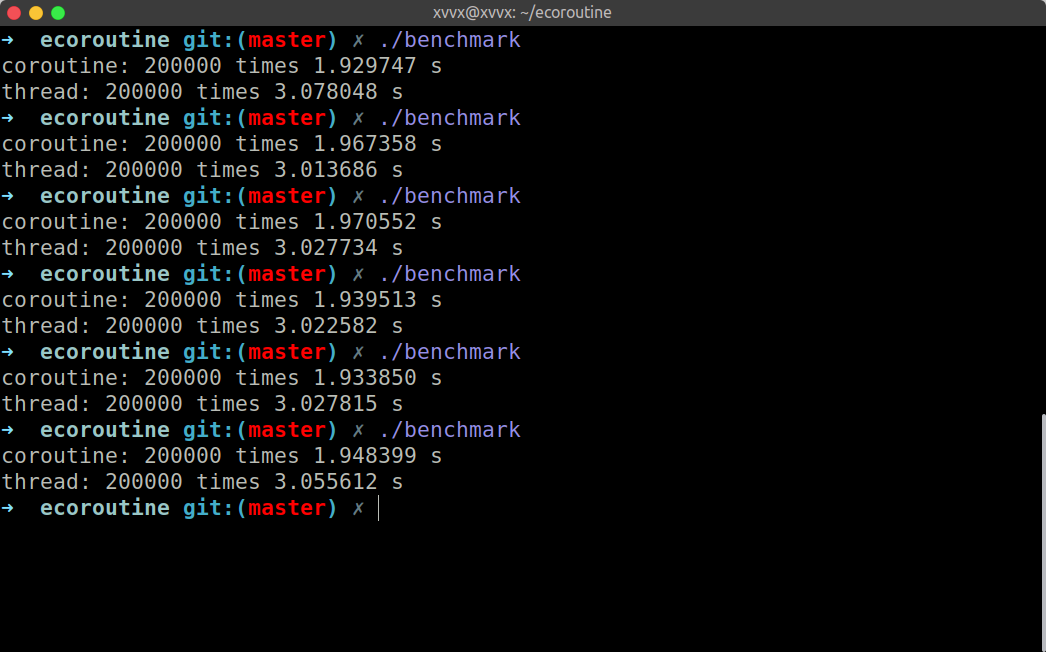
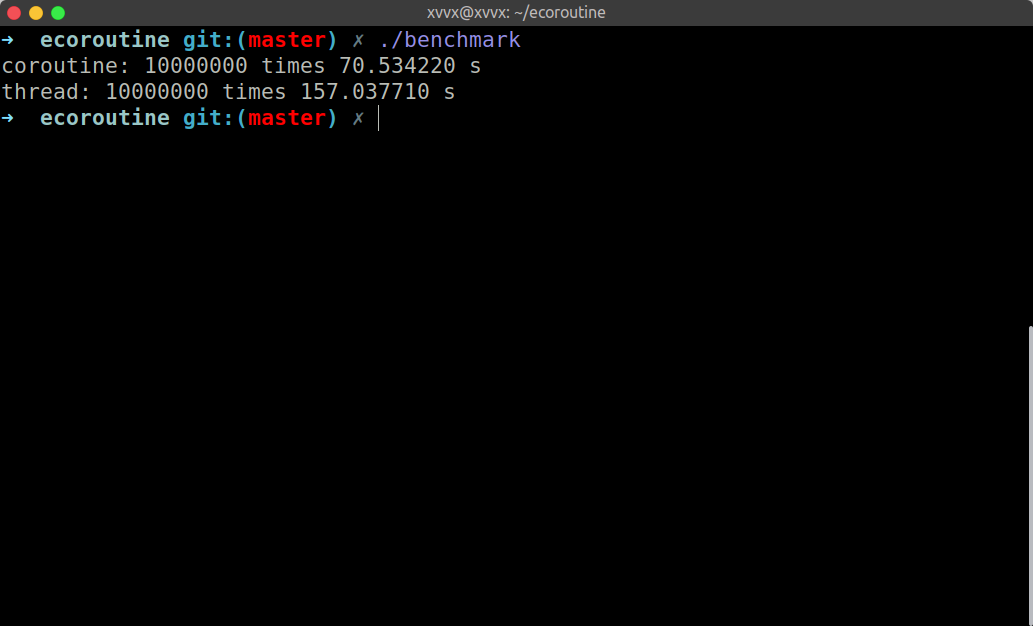
fix bug: allocated Coroutine object can't be deleted

Changed region(s): [[0.0, 0.0, 0.5886, 0.7891], [0.9913, 0.516, 1.0, 0.6374]]

diff --git a/coroutine.cc b/coroutine.cc
@@ -11,8 +11,6 @@
 #include <sstream>
 
 
-static int free_cnt = 0;
-
 namespace ecoroutine {
 
 static void schedule();
@@ -123,19 +121,24 @@ void Scheduler::DoSchedule() {
             next->state_ = CoState::kRunning;
             running_id_ = next->id_;
             swapcontext(&main_context_, &next->context_);
+
+            //if come back from dead coroutine
+            if (next->state_ == CoState::kDead) {
+                id_map_.erase(next->id_);
+                ready_coroutines_.remove(next);
+                all_coroutines_.remove(next);
+            }
         }
     } else {
-        //not main coroutines
-        if (curr->state_ == CoState::kDead) {
-            id_map_.erase(curr->id_);
 
-            ready_coroutines_.remove(curr);
-            all_coroutines_.remove(curr);
+        ucontext_t *curr_context = &curr->context_;
+        if(curr->state_==CoState::kDead){
+            curr.reset();
         }
 
         //switch to main coroutine
         running_id_ = 0;
-        swapcontext(&curr->context_, &main_context_);
+        swapcontext(curr_context, &main_context_);
     }
 }
 

diff --git a/benchmark.cc b/benchmark.cc
@@ -9,16 +9,15 @@
 #include <stdio.h>
 #include <thread>
 
-constexpr uint32_t loop_times = 100000;
+constexpr uint32_t loop_times = 500 * 10000;
 
 uint64_t coroutine_test() {
-    ecoroutine::CoroutineFunc func = [](){ ecoroutine::yield(); };
+    ecoroutine::CoroutineFunc func = [](){};
+
     clock_t start = clock();
     for (int i = 0; i < loop_times; ++i) {
         ecoroutine::coroutine_t coroutine1 = ecoroutine::create(func);
         ecoroutine::coroutine_t coroutine2 = ecoroutine::create(func);
-        ecoroutine::run(coroutine1);
-        ecoroutine::run(coroutine2);
         ecoroutine::run(coroutine1);
         ecoroutine::run(coroutine2);
     }

diff --git a/README.md b/README.md
@@ -2,7 +2,17 @@
 
 A simple stackful asymmetric scheduling coroutine library for modern C++.
 
+- schedule algorithm: asymmetric coroutine sheduling, same as [libgo](https://github.com/yyzybb537/libgo)
+- coroutine stack: virtual memory stack
+
+
 ### How to use?
+
+#### build
+```
+cmake .
+make example && make benchmark
+```
 
 #### create a coroutine
 ```C++
@@ -13,40 +23,43 @@ Notice: this `create` is different from the `pthread_create`, since the coroutin
 not begin to work immediatly. You need to call `ecoroutine::start`.
 
 
-#### start a coroutine
+#### run a coroutine
+If a coroutie has been created but not running yet, you need run. If a coroutine has called yield,
+you need run to make it running again.
+
 ```C++
-ecoroutine::start(c);
+ecoroutine::run(c);
 ```
 
 #### yield a coroutine
 ```C++
 ecoroutine::yield();
 ```
+
 `yield` will yield the current running coroutine. If you try to yield the main coroutine,
 it'll report an error. Because coroutine is non-preemptive, the only way to give up control of CPU is
 yield. And the current coroutine's state will change to HangUp, and the scheduler will begin
 to work.
 
-#### benchmark
+### What's the performance?
 Comparing to C++11 std::thread, ecoroutine doesn't need to do context switch in kernel mode. So it's quietly faster than std::thread.
 
-I create and destroy thread/coroutine for 2,000,000 times to show the difference of their performance. 
+I create and destroy thread/coroutine for 10,000,000 times to show the difference of their performance.
 
 ![./pics/bench.png](./pics/bench.png)
 
 benchmark code：
 
 ```C++
-constexpr uint32_t loop_times = 100000;
+constexpr uint32_t loop_times = 500 * 1000;
 
 uint64_t coroutine_test() {
-    ecoroutine::CoroutineFunc func = [](){ ecoroutine::yield(); };
+    ecoroutine::CoroutineFunc func = [](){};
+
     clock_t start = clock();
     for (int i = 0; i < loop_times; ++i) {
         ecoroutine::coroutine_t coroutine1 = ecoroutine::create(func);
         ecoroutine::coroutine_t coroutine2 = ecoroutine::create(func);
-        ecoroutine::run(coroutine1);
-        ecoroutine::run(coroutine2);
         ecoroutine::run(coroutine1);
         ecoroutine::run(coroutine2);
     }
@@ -80,89 +93,6 @@ int main(int argc, char* argv[]) {
 
 ```
 
-#### example
-
-```C++
-int main() {
-    vector<ecoroutine::coroutine_t> coroutines;
-    for (int i = 0; i < 10; ++i) {
-        ecoroutine::CoroutineFunc func = [i](){
-            for (int j = 0; j < 3; ++j) {
-                cout << "[coroutine_t " << ecoroutine::self() << "] before yield:" << j << endl;
-                ecoroutine::yield();
-                cout << "[coroutine_t " << ecoroutine::self() << "] after yiled: " << j << endl;
-            }
-        };
-        coroutines.push_back(ecoroutine::create(func));
-    }
-
-    for (auto x : coroutines) {
-        ecoroutine::start(x);
-    }
-    return 0;
-}
-```
-
-result:
-```
-[coroutine_t 1] before yield:0
-[coroutine_t 2] before yield:0
-[coroutine_t 3] before yield:0
-[coroutine_t 4] before yield:0
-[coroutine_t 5] before yield:0
-[coroutine_t 6] before yield:0
-[coroutine_t 7] before yield:0
-[coroutine_t 8] before yield:0
-[coroutine_t 9] before yield:0
-[coroutine_t 10] before yield:0
-[coroutine_t 1] after yiled: 0
-[coroutine_t 1] before yield:1
-[coroutine_t 2] after yiled: 0
-[coroutine_t 2] before yield:1
-[coroutine_t 3] after yiled: 0
-[coroutine_t 3] before yield:1
-[coroutine_t 4] after yiled: 0
-[coroutine_t 4] before yield:1
-[coroutine_t 5] after yiled: 0
-[coroutine_t 5] before yield:1
-[coroutine_t 6] after yiled: 0
-[coroutine_t 6] before yield:1
-[coroutine_t 7] after yiled: 0
-[coroutine_t 7] before yield:1
-[coroutine_t 8] after yiled: 0
-[coroutine_t 8] before yield:1
-[coroutine_t 9] after yiled: 0
-[coroutine_t 9] before yield:1
-[coroutine_t 10] after yiled: 0
-[coroutine_t 10] before yield:1
-[coroutine_t 1] after yiled: 1
-[coroutine_t 1] before yield:2
-[coroutine_t 2] after yiled: 1
-[coroutine_t 2] before yield:2
-[coroutine_t 3] after yiled: 1
-[coroutine_t 3] before yield:2
-[coroutine_t 4] after yiled: 1
-[coroutine_t 4] before yield:2
-[coroutine_t 5] after yiled: 1
-[coroutine_t 5] before yield:2
-[coroutine_t 6] after yiled: 1
-[coroutine_t 6] before yield:2
-[coroutine_t 7] after yiled: 1
-[coroutine_t 7] before yield:2
-[coroutine_t 8] after yiled: 1
-[coroutine_t 8] before yield:2
-[coroutine_t 9] after yiled: 1
-[coroutine_t 9] before yield:2
-[coroutine_t 10] after yiled: 1
-[coroutine_t 10] before yield:2
-[coroutine_t 1] after yiled: 2
-[coroutine_t 2] after yiled: 2
-[coroutine_t 3] after yiled: 2
-[coroutine_t 4] after yiled: 2
-[coroutine_t 5] after yiled: 2
-[coroutine_t 6] after yiled: 2
-[coroutine_t 7] after yiled: 2
-[coroutine_t 8] after yiled: 2
-[coroutine_t 9] after yiled: 2
-[coroutine_t 10] after yiled: 2
-```
+### future
+- maybe a channel for data transfer
+- maybe hook for networking I/O
